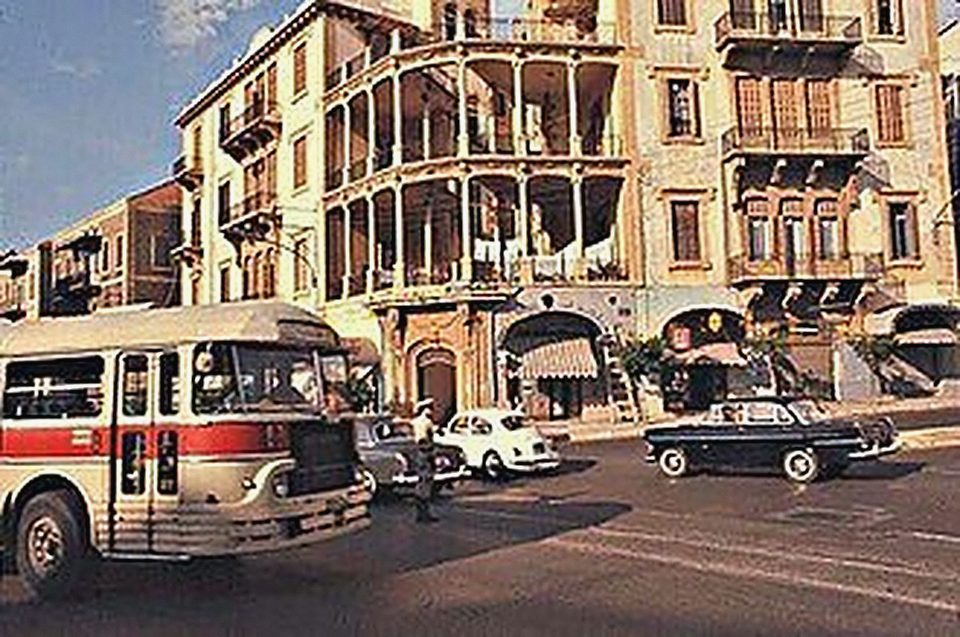
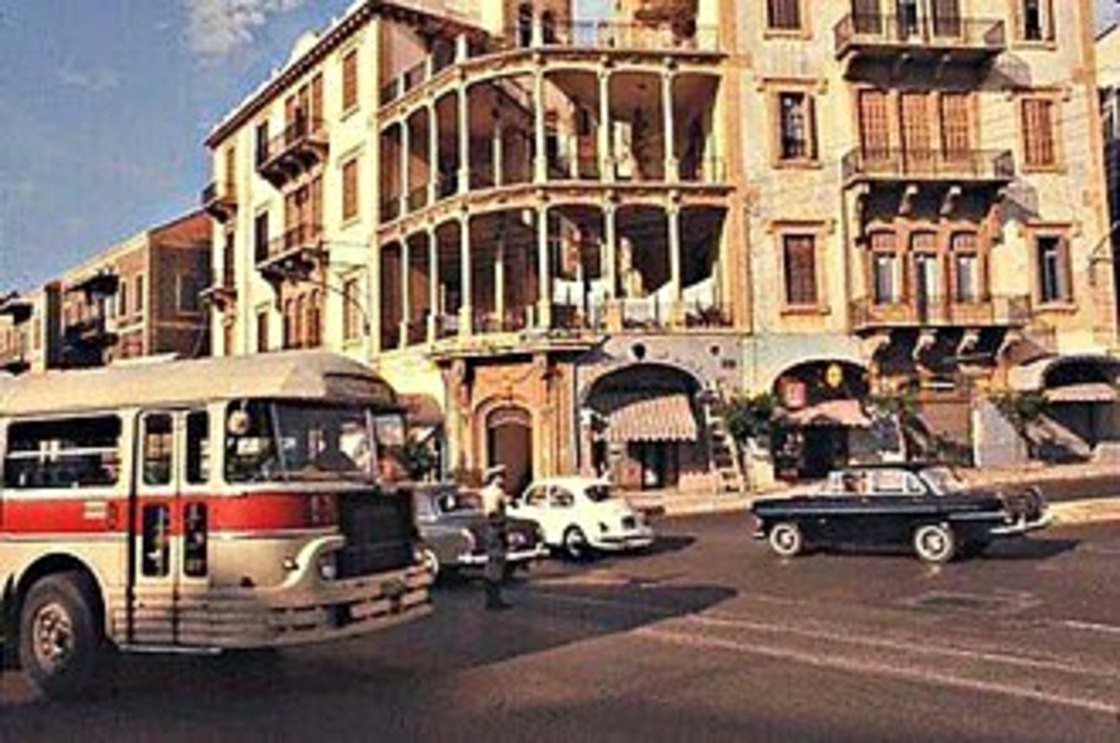
Sniper's Eye: photographic toggle and cleaner 1960 print
- Replace the drawn arcade and sandbag SVGs with real photographs: in the
  sniper's eye, two leaves of the building's own bullet-scarred sandstone
  close in from above and below, leaving a feathered slit at street height
- Drop the scope reticle; the view drains of colour, settles slightly
  closer and drifts almost imperceptibly, like someone holding still
- Architect's eye is now the full photograph in soft afternoon light
- Re-render the c. 1960 street photo without added grain (gentle
  deblocking and enlargement); 3:2 frame on desktop, 4:3 on phones

Claude-Session: https://claude.ai/code/session_01NE6ErRUzH5boWqC9nFmqqn

diff --git a/assets/css/sniper.css b/assets/css/sniper.css
@@ -345,69 +345,84 @@
 .eye-btn:not([aria-pressed="true"]):hover { color: var(--bone); }
 
 .opening { max-width: 62rem; margin: 0 auto; }
-.frame { cursor: pointer; }
 .frame {
   position: relative;
-  aspect-ratio: 16 / 10;
+  aspect-ratio: 3 / 2;
   overflow: hidden;
-  background: #000;
+  background: #0b0907;
   box-shadow: 0 40px 80px -40px rgba(0, 0, 0, .9);
   isolation: isolate;
+  cursor: pointer;
 }
 .view { position: absolute; inset: 0; overflow: hidden; }
 .view img {
   width: 100%; height: 100%;
   object-fit: cover;
   object-position: 50% 60%;
-  filter: sepia(.4) saturate(1.2) brightness(1.02);
-  transition: transform 2.2s cubic-bezier(.65, 0, .25, 1), filter 1.6s var(--ease);
+  transform-origin: 44% 74%;
+  filter: sepia(.22) saturate(1.05) brightness(1.03) contrast(.98);
+  transition: transform 3s cubic-bezier(.45, 0, .2, 1), filter 2.4s var(--ease);
 }
-.light-rays {
-  position: absolute; inset: 0;
-  background:
-    radial-gradient(70% 60% at 50% 30%, rgba(255, 226, 170, .35), transparent 70%),
-    linear-gradient(100deg, transparent 20%, rgba(255, 240, 210, .18) 40%, transparent 60%);
-  mix-blend-mode: screen;
-  transition: opacity 1.4s var(--ease);
-}
-.scope {
-  position: absolute;
-  left: 50%; top: 53.6%;
-  width: 22%;
-  aspect-ratio: 1;
-  transform: translate(-50%, -50%);
-  opacity: 0;
-  transition: opacity 1s var(--ease);
-}
-.scope svg { width: 100%; height: 100%; fill: none; stroke: rgba(240, 236, 228, .65); stroke-width: 1; }
-.scope .tick { stroke: rgba(200, 60, 40, .8); stroke-width: 1.4; }
-
-.wall { position: absolute; inset: 0; width: 100%; height: 100%; pointer-events: none; }
-.wall--arcade { transition: opacity 1.2s var(--ease), transform 2s var(--ease); }
-.wall--bunker { transform: translateY(102%); transition: transform 1.6s cubic-bezier(.7, 0, .25, 1); }
-
-/* sniper mode */
-.opening[data-eye="sniper"] .view img {
-  /* bring the street below the house into the slit */
-  transform: translate(3.6%, -33.5%) scale(1.8);
-  filter: grayscale(1) contrast(1.35) brightness(.7);
-}
-.opening[data-eye="sniper"] .light-rays { opacity: 0; }
-.opening[data-eye="sniper"] .scope { opacity: 1; transition-delay: 1.4s; animation: sway 7s ease-in-out 1.4s infinite; }
-.opening[data-eye="sniper"] .wall--bunker { transform: none; }
-.opening[data-eye="sniper"] .wall--arcade { opacity: 0; transition-delay: .9s; }
-@keyframes sway {
-  0%, 100% { transform: translate(-50%, -50%); }
-  30% { transform: translate(-46%, -52%); }
-  60% { transform: translate(-53%, -49%); }
-}
-
-.frame::after {          /* the dim room around the opening */
-  content: "";
+/* warm, soft light falling across the street, as the architect meant it to be seen */
+.sunlight {
   position: absolute; inset: 0;
   pointer-events: none;
-  background: radial-gradient(ellipse at 50% 55%, transparent 45%, rgba(20, 12, 4, .5) 100%);
+  background:
+    radial-gradient(90% 70% at 62% 18%, rgba(255, 222, 160, .28), transparent 65%),
+    radial-gradient(ellipse at 50% 50%, transparent 55%, rgba(40, 22, 6, .35) 100%);
+  mix-blend-mode: soft-light;
+  transition: opacity 2s var(--ease);
 }
+
+/* Two leaves of real, bullet-scarred sandstone that close in until only a
+   slit is left at street height. Their inner edges are feathered so they read
+   as broken stone in shadow rather than a drawn shape. */
+.shutter {
+  position: absolute; left: -2%; right: -2%;
+  background-size: cover;
+  background-color: #14100c;
+  filter: contrast(1.1) saturate(.55);
+  transition: transform 2.6s cubic-bezier(.6, 0, .2, 1);
+  will-change: transform;
+}
+.shutter--top {
+  top: 0; height: 63%;
+  background-image:
+    linear-gradient(to bottom, rgba(8, 6, 4, .9) 0%, rgba(8, 6, 4, .78) 70%, rgba(8, 6, 4, .55) 96%, rgba(120, 80, 40, .35) 100%),
+    url("../img/sniper/holes-arcade.jpg");
+  background-position: 50% 70%, 50% 70%;
+  transform: translateY(-104%);
+  -webkit-mask: linear-gradient(to bottom, #000 0, #000 calc(100% - 1.1rem), transparent 100%);
+          mask: linear-gradient(to bottom, #000 0, #000 calc(100% - 1.1rem), transparent 100%);
+}
+.shutter--bottom {
+  bottom: 0; height: 22%;
+  background-image:
+    linear-gradient(to top, rgba(8, 6, 4, .92) 0%, rgba(8, 6, 4, .8) 65%, rgba(8, 6, 4, .55) 95%, rgba(120, 80, 40, .35) 100%),
+    url("../img/sniper/holes-column.jpg");
+  background-position: 50% 40%, 50% 40%;
+  transform: translateY(104%);
+  -webkit-mask: linear-gradient(to top, #000 0, #000 calc(100% - .9rem), transparent 100%);
+          mask: linear-gradient(to top, #000 0, #000 calc(100% - .9rem), transparent 100%);
+}
+
+/* sniper mode: the stone closes, colour drains, the eye settles on the street */
+.opening[data-eye="sniper"] .shutter { transform: none; }
+.opening[data-eye="sniper"] .sunlight { opacity: 0; }
+.opening[data-eye="sniper"] .view img {
+  transform: scale(1.12);
+  filter: grayscale(.92) sepia(.08) contrast(1.08) brightness(.86);
+}
+.opening[data-eye="sniper"] .view {
+  animation: watch 14s ease-in-out 2.6s infinite;
+}
+/* the barely perceptible drift of someone holding still and watching */
+@keyframes watch {
+  0%, 100% { transform: translate(0, 0); }
+  35% { transform: translate(-.6%, .2%); }
+  70% { transform: translate(.5%, -.15%); }
+}
+
 .eye-text {
   min-height: 7.5rem;
   padding: clamp(1rem, .6rem + 1.5vw, 1.75rem) clamp(.5rem, .3rem + 3vw, 3rem) 0;
@@ -495,9 +510,7 @@
   .step, .step:nth-child(even) { justify-content: center; }
   .card { max-width: none; }
   .steps { padding-top: 70svh; }
-  .frame { aspect-ratio: 3 / 4; }
-  .opening[data-eye="sniper"] .view img { transform: translate(6.4%, -28.4%) scale(1.6); }
-  .scope { width: 44%; }
+  .frame { aspect-ratio: 4 / 3; }
   .eye-switch { display: flex; }
   .eye-btn { flex: 1; }
   .witnesses { margin-left: 0; margin-right: 0; }
@@ -507,6 +520,6 @@
 
 @media (prefers-reduced-motion: reduce) {
   .sn-head-img img, .layer.is-on[data-scene="light"]::after, .sn-cue span::after,
-  .opening[data-eye="sniper"] .scope { animation: none; }
-  .layer, .layer img, .slit, .view img, .wall--bunker, .wall--arcade, .card { transition-duration: .01s !important; transition-delay: 0s !important; }
+  .opening[data-eye="sniper"] .view { animation: none; }
+  .layer, .layer img, .slit, .view img, .shutter, .card { transition-duration: .01s !important; transition-delay: 0s !important; }
 }

diff --git a/work/sniper/index.html b/work/sniper/index.html
@@ -65,7 +65,7 @@
     <section class="story" id="story-1" aria-label="The Yellow House, 1924 to 1990">
       <div class="stage" aria-hidden="true">
         <div class="layer" data-scene="house">
-          <img src="../../assets/img/sniper/barakat-1960.jpg" width="960" height="637" alt="" loading="eager">
+          <img src="../../assets/img/sniper/barakat-1960.jpg" width="1120" height="743" alt="" loading="eager">
         </div>
         <div class="layer" data-scene="light">
           <img src="../../assets/img/sniper/void-light.jpg" width="1280" height="960" alt="">
@@ -168,64 +168,15 @@
 
       <figure class="opening" id="opening" data-eye="architect">
         <div class="frame">
-        <div class="view">
-          <img src="../../assets/img/sniper/barakat-1960.jpg" width="960" height="637"
-            alt="The intersection below the Yellow House around 1960: a red-and-cream bus, parked cars and a pedestrian crossing in the sun." loading="lazy">
-          <div class="light-rays" aria-hidden="true"></div>
-          <div class="scope" aria-hidden="true">
-            <svg viewBox="0 0 200 200"><circle cx="100" cy="100" r="62"/><path d="M100 20v62M100 118v62M20 100h62M118 100h62"/><path d="M96 100h8M100 96v8" class="tick"/></svg>
+          <div class="view">
+            <img src="../../assets/img/sniper/barakat-1960.jpg" width="1120" height="743"
+              alt="The intersection below the Yellow House around 1960: a red-and-cream bus, parked cars and a pedestrian crossing in the sun." loading="lazy">
           </div>
-        </div>
-
-        <!-- Aftimus's arcade: three arched openings on slender columns -->
-        <svg class="wall wall--arcade" viewBox="0 0 1000 625" preserveAspectRatio="xMidYMid slice" aria-hidden="true">
-          <defs>
-            <linearGradient id="stoneGrad" x1="0" y1="0" x2="1" y2="1">
-              <stop offset="0" stop-color="#d9b77a"/><stop offset=".55" stop-color="#c79f5f"/><stop offset="1" stop-color="#a77f45"/>
-            </linearGradient>
-            <filter id="grain" x="0" y="0" width="100%" height="100%">
-              <feTurbulence type="fractalNoise" baseFrequency=".9" numOctaves="2" seed="4" result="n"/>
-              <feColorMatrix in="n" type="saturate" values="0" result="g"/>
-              <feComponentTransfer in="g" result="g2"><feFuncA type="linear" slope=".22"/></feComponentTransfer>
-              <feComposite in="g2" in2="SourceGraphic" operator="in" result="gm"/>
-              <feBlend in="SourceGraphic" in2="gm" mode="multiply"/>
-            </filter>
-          </defs>
-          <path fill="url(#stoneGrad)" filter="url(#grain)" fill-rule="evenodd" d="
-            M0 0H1000V625H0Z
-            M150 585V260A110 110 0 0 1 370 260V585Z
-            M390 585V260A110 110 0 0 1 610 260V585Z
-            M630 585V260A110 110 0 0 1 850 260V585Z"/>
-          <g class="mould" fill="none" stroke="#8a6534" stroke-opacity=".45" stroke-width="3">
-            <path d="M150 260A110 110 0 0 1 370 260M390 260A110 110 0 0 1 610 260M630 260A110 110 0 0 1 850 260"/>
-            <path d="M120 600H880" stroke-width="6"/>
-          </g>
-          <g class="capitals" fill="#b88d52">
-            <rect x="362" y="252" width="36" height="12" rx="2"/><rect x="602" y="252" width="36" height="12" rx="2"/>
-          </g>
-        </svg>
-
-        <!-- The bunker: sandbags and breeze-block filling the same arcade, one slit left open -->
-        <svg class="wall wall--bunker" viewBox="0 0 1000 625" preserveAspectRatio="xMidYMid slice" aria-hidden="true">
-          <defs>
-            <pattern id="bags" width="120" height="56" patternUnits="userSpaceOnUse">
-              <rect width="120" height="56" fill="#2b2721"/>
-              <rect x="3" y="3" width="114" height="24" rx="11" fill="#5d5546"/>
-              <rect x="-57" y="31" width="114" height="22" rx="11" fill="#544c3f"/>
-              <rect x="63" y="31" width="114" height="22" rx="11" fill="#5a5243"/>
-              <path d="M10 14h100" stroke="#3e382f" stroke-width="1.5"/>
-            </pattern>
-            <mask id="slitMask">
-              <rect width="1000" height="625" fill="#fff"/>
-              <rect class="slit-hole" x="380" y="300" width="240" height="70" rx="3" fill="#000"/>
-            </mask>
-          </defs>
-          <g mask="url(#slitMask)">
-            <rect width="1000" height="625" fill="url(#bags)" filter="url(#grain)"/>
-            <rect width="1000" height="625" fill="#0c0a08" opacity=".35"/>
-          </g>
-        </svg>
-
+          <!-- afternoon light through the open plan -->
+          <div class="sunlight" aria-hidden="true"></div>
+          <!-- the bunker closes in: real scarred sandstone from the building -->
+          <div class="shutter shutter--top" aria-hidden="true"></div>
+          <div class="shutter shutter--bottom" aria-hidden="true"></div>
         </div>
         <figcaption class="eye-text" aria-live="polite">
           <p class="eye-copy" data-for="architect">
